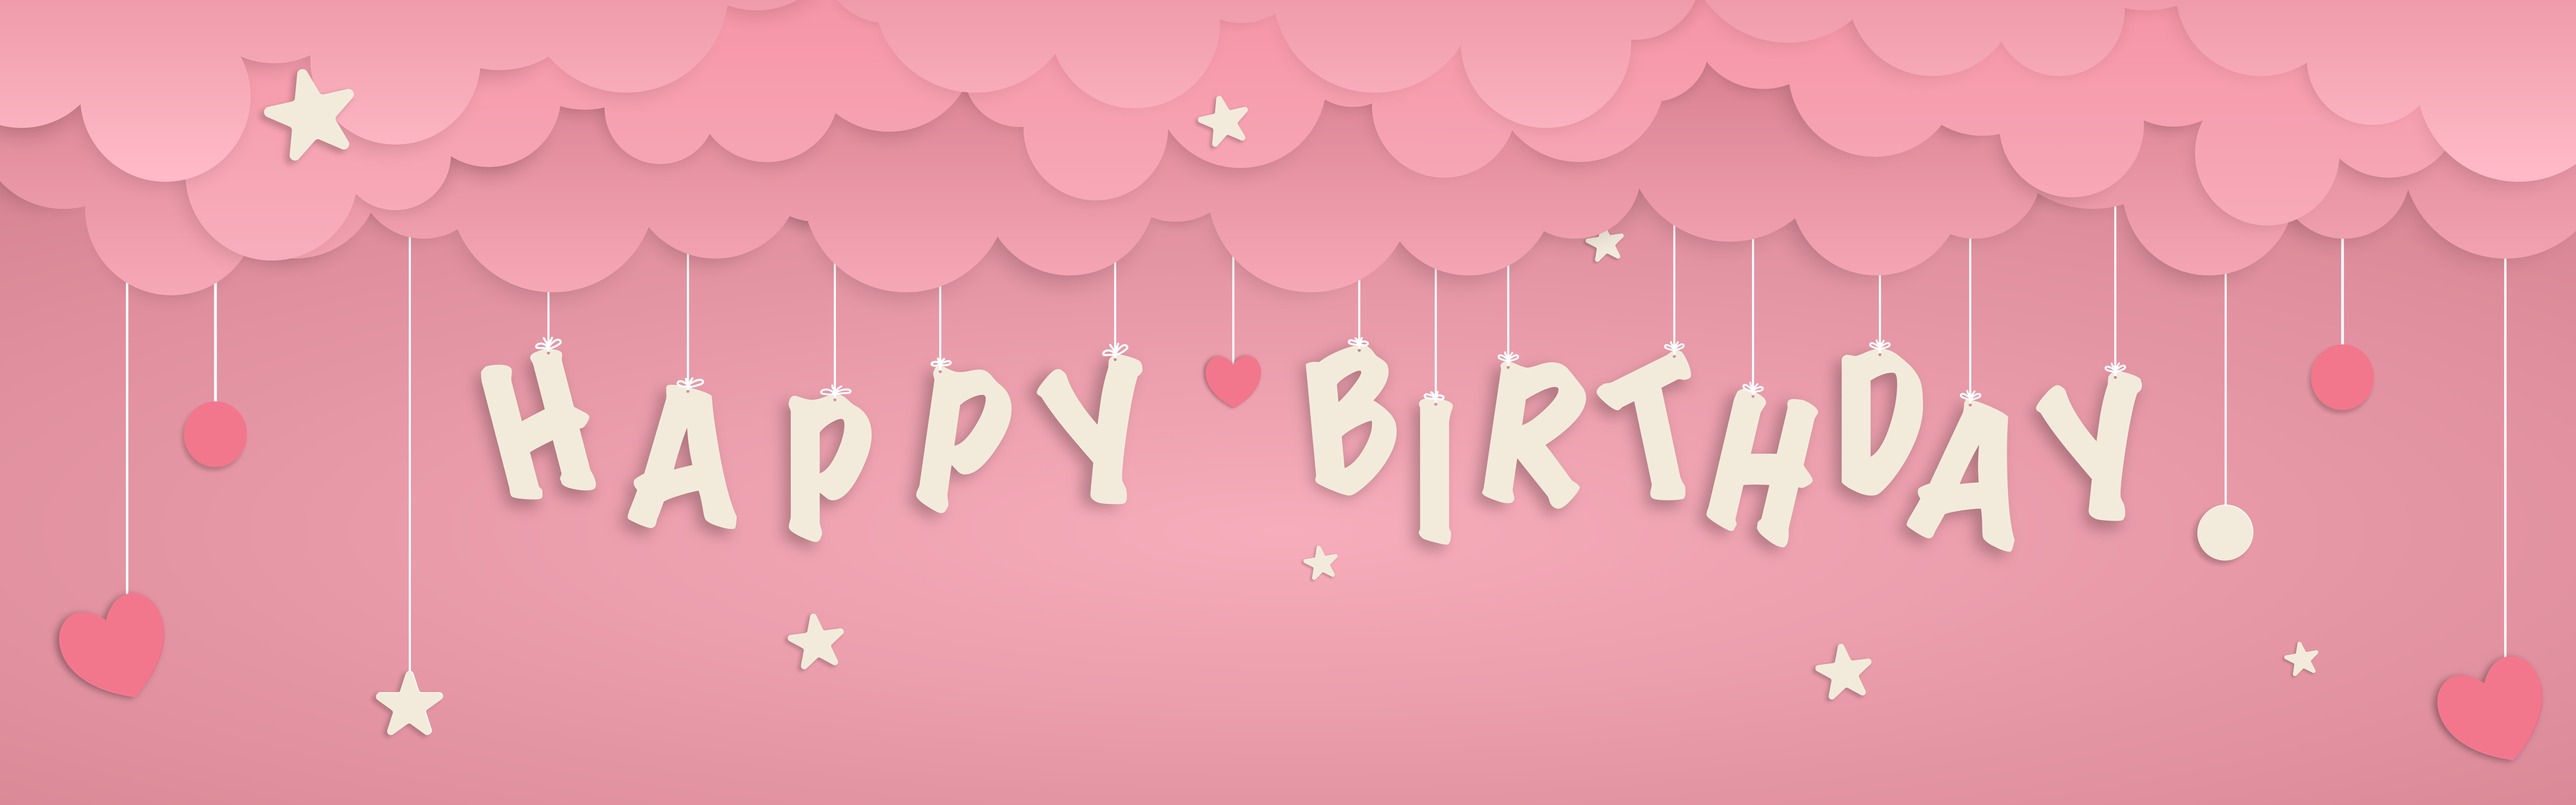
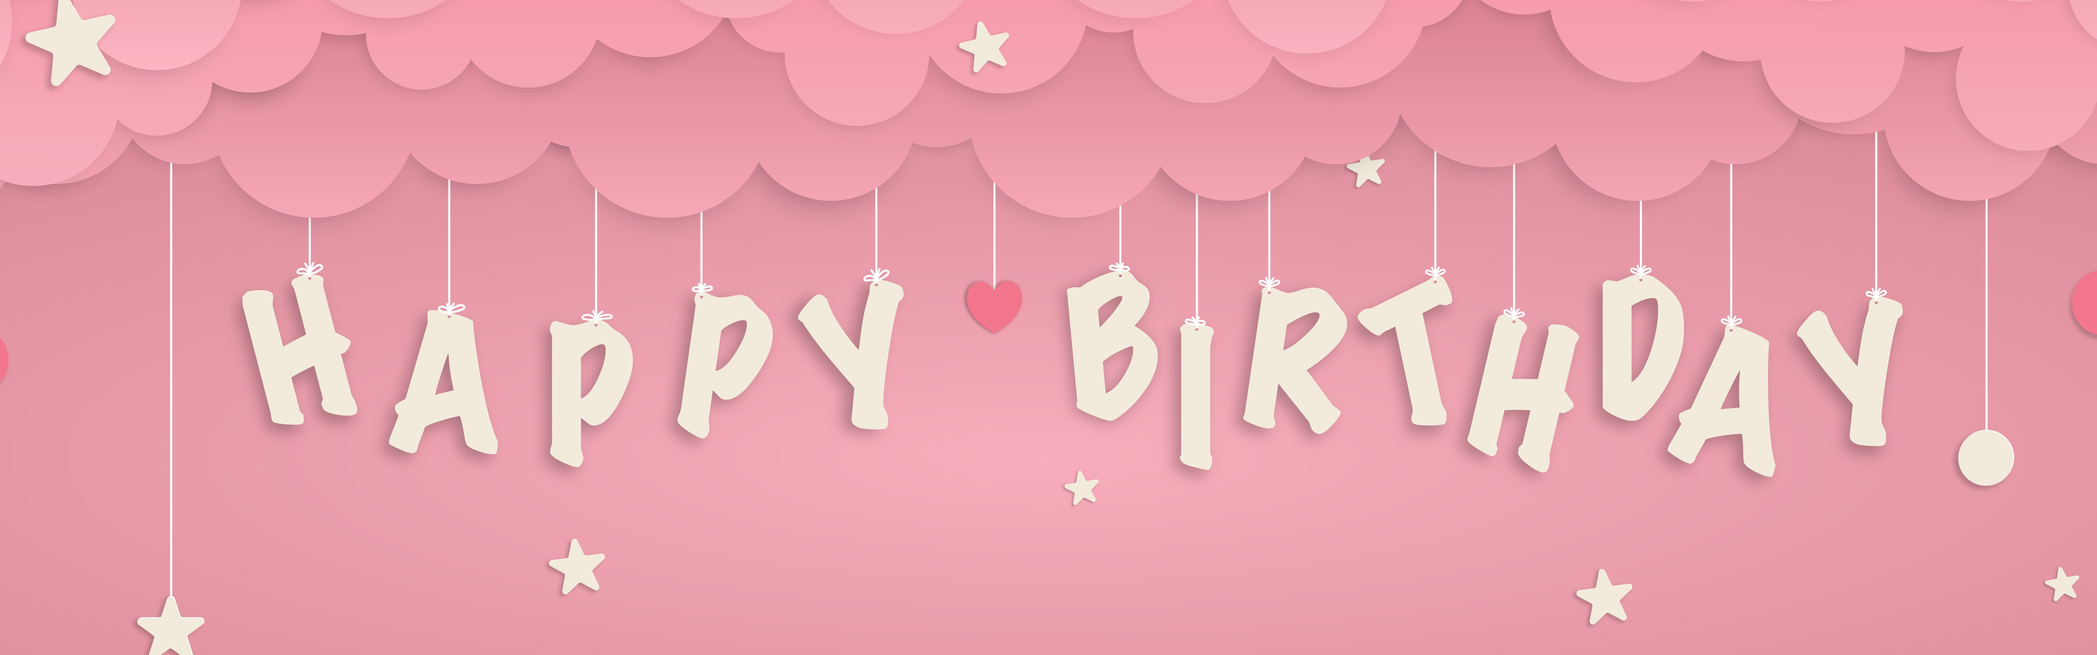
HBD

diff --git a/style.css b/style.css
@@ -58,7 +58,7 @@ h1 {
 
 /* Banner Styling */
 .banner img {
-  width: 150%;
+  width: 200%;
   max-width: 1000px;
   margin-bottom: 50px;
 }
@@ -269,4 +269,48 @@ h1 {
     padding: 8px 16px;
   }
 }
+/* Background Clouds Styling */
+#background-clouds {
+  position: absolute;
+  top: 0;
+  left: 0;
+  width: 100%;
+  height: 100%;
+  z-index: -2; /* Behind everything */
+  overflow: hidden;
+}
 
+.background-cloud {
+  position: absolute;
+  opacity: 0.5; /* Make them more transparent */
+  width: 20vw; /* Slightly smaller than front clouds */
+  animation: float-background 100s linear infinite; /* Slower movement */
+}
+
+.bg-cloud1 {
+  top: 10%;
+  left: -20%;
+  animation-delay: 0s;
+}
+
+.bg-cloud2 {
+  top: 50%;
+  left: -20%;
+  animation-delay: 10s;
+}
+
+.bg-cloud3 {
+  top: 80%;
+  left: -20%;
+  animation-delay: 20s;
+}
+
+/* Floating Animation for Background Clouds */
+@keyframes float-background {
+  from {
+    transform: translateX(0);
+  }
+  to {
+    transform: translateX(200%);
+  }
+}

diff --git a/index.html b/index.html
@@ -34,6 +34,11 @@
   <img src="images/cloud.png" class="cloud cloud1" alt="Cloud">
   <img src="images/cloud.png" class="cloud cloud2" alt="Cloud">
   <img src="images/cloud.png" class="cloud cloud3" alt="Cloud">
+  <div id="background-clouds">
+    <img src="images/cloud.png" class="background-cloud bg-cloud1" alt="Background Cloud">
+    <img src="images/cloud.png" class="background-cloud bg-cloud2" alt="Background Cloud">
+    <img src="images/cloud.png" class="background-cloud bg-cloud3" alt="Background Cloud">
+  </div>
   <audio id="music" src="music/happy-birthday-song.mp3" loop></audio>
   <script src="script.js"></script>
 </body>
